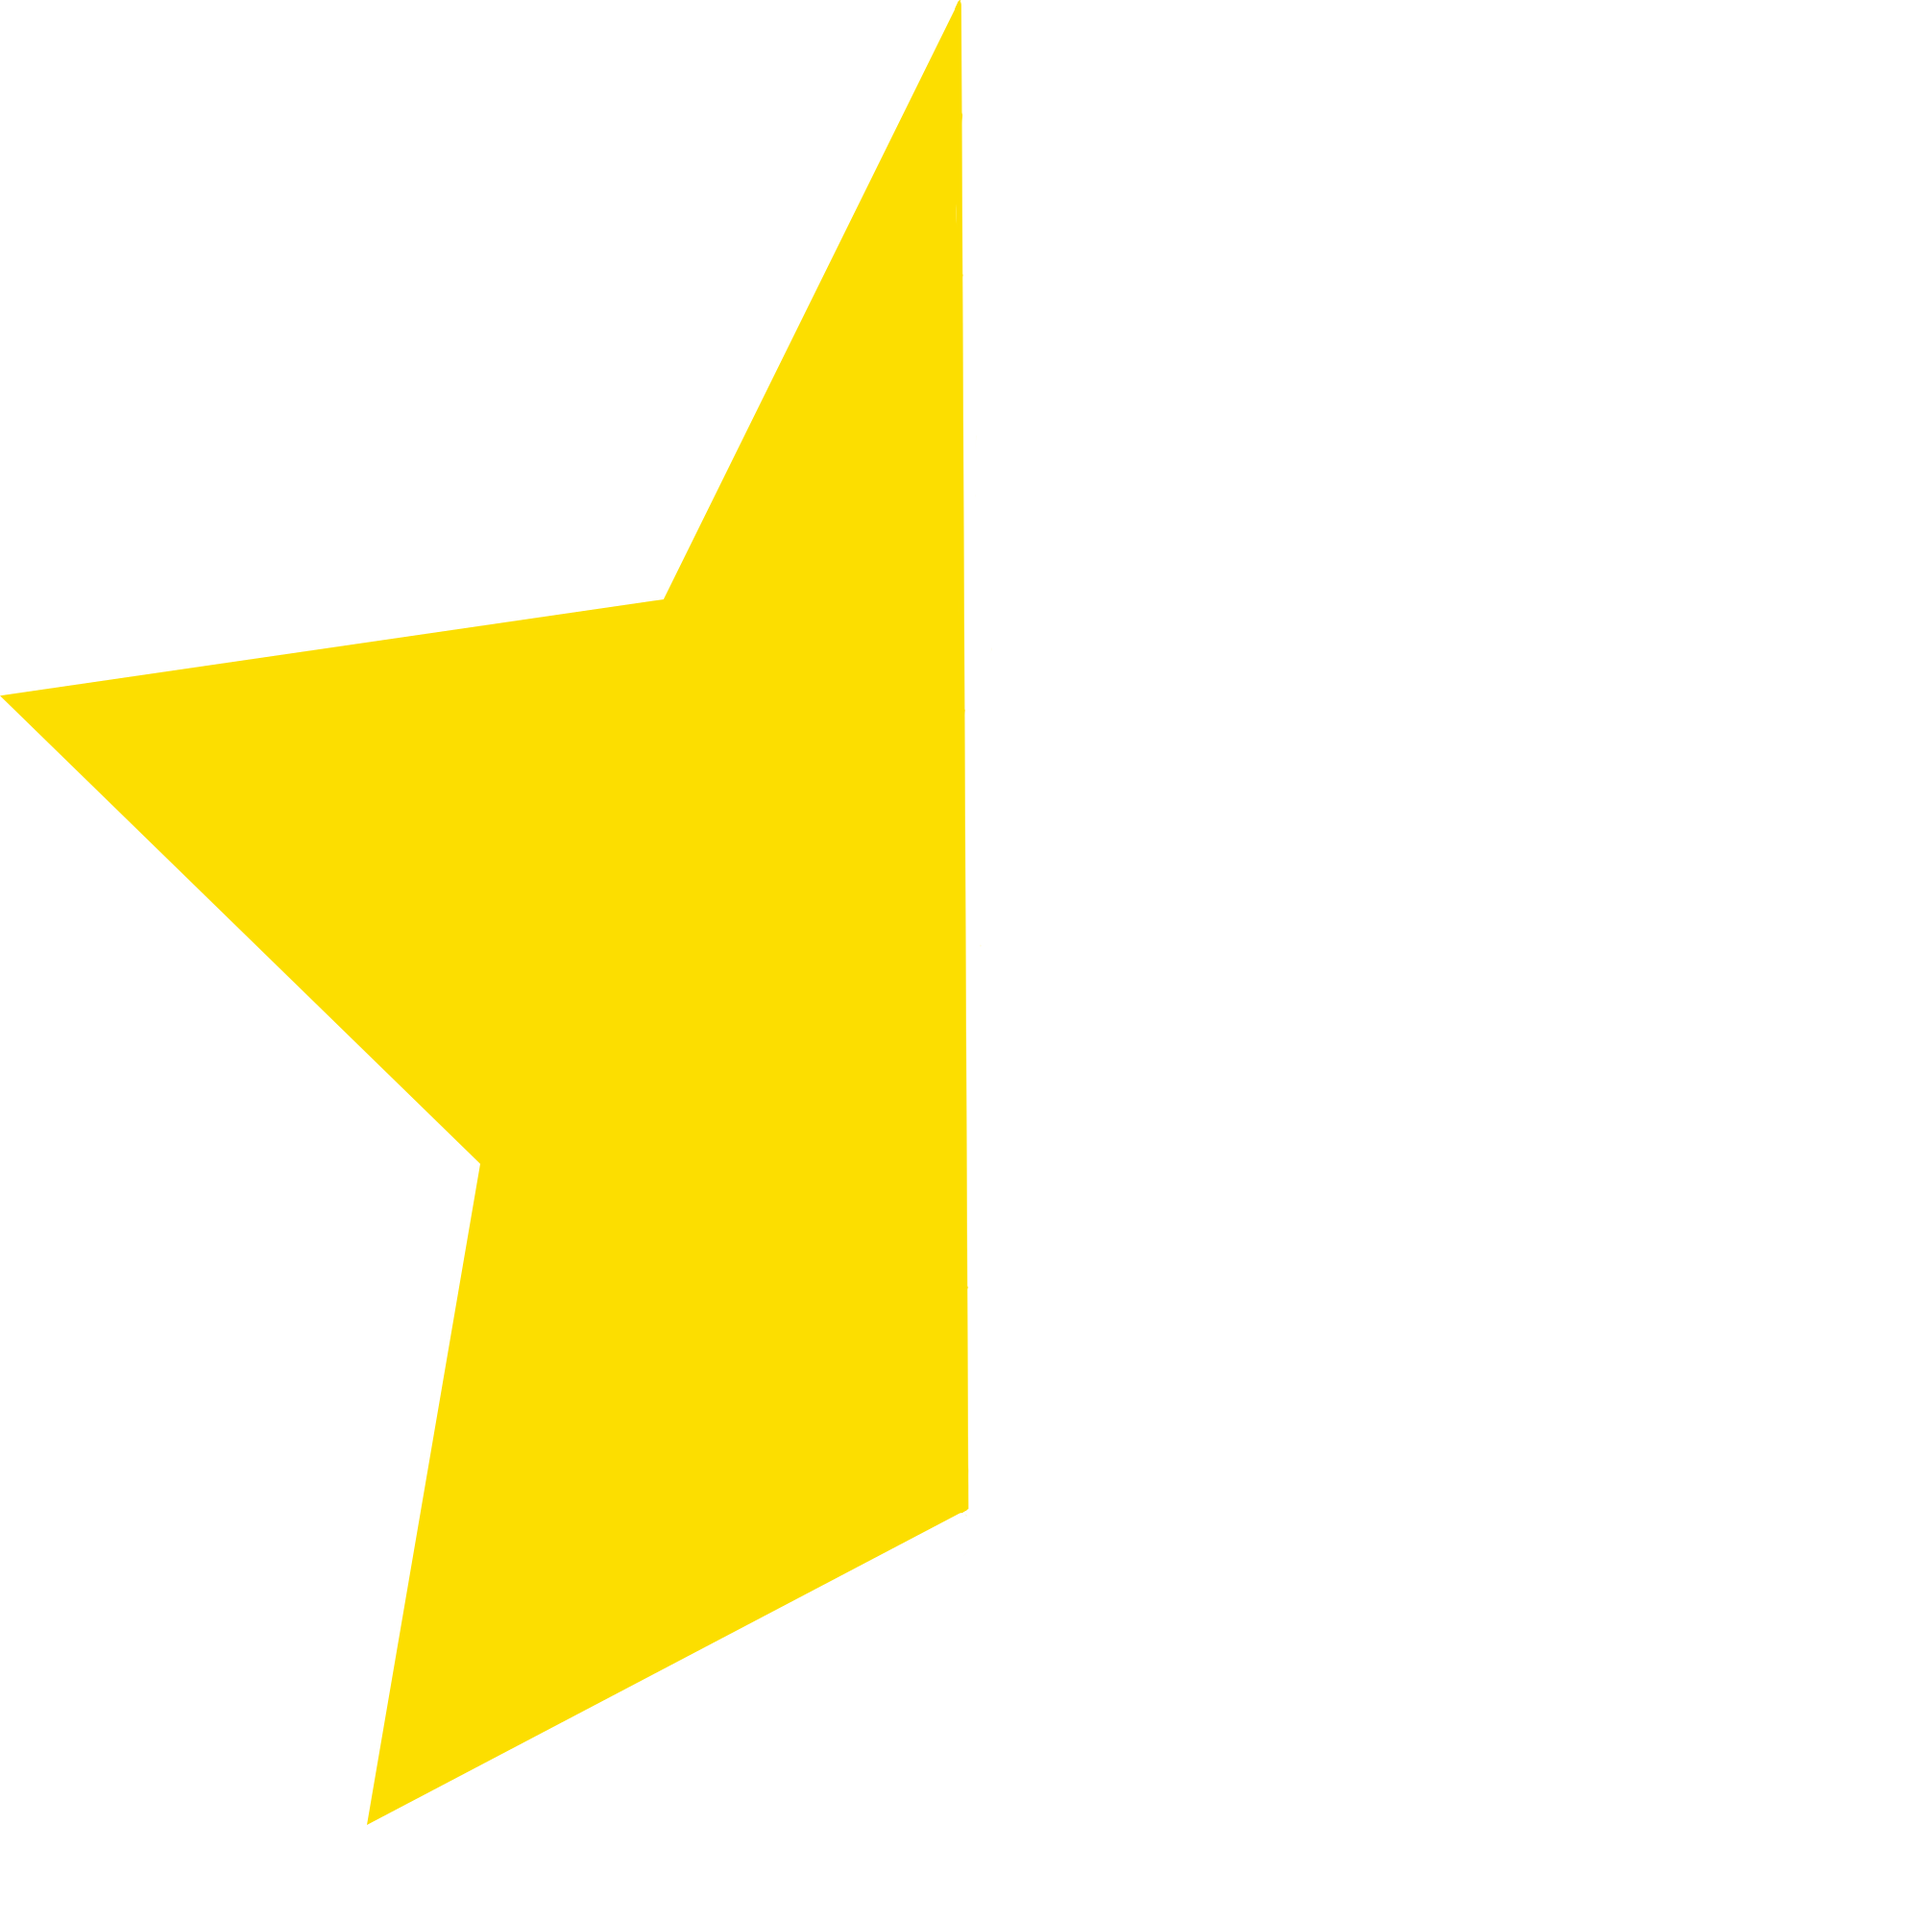
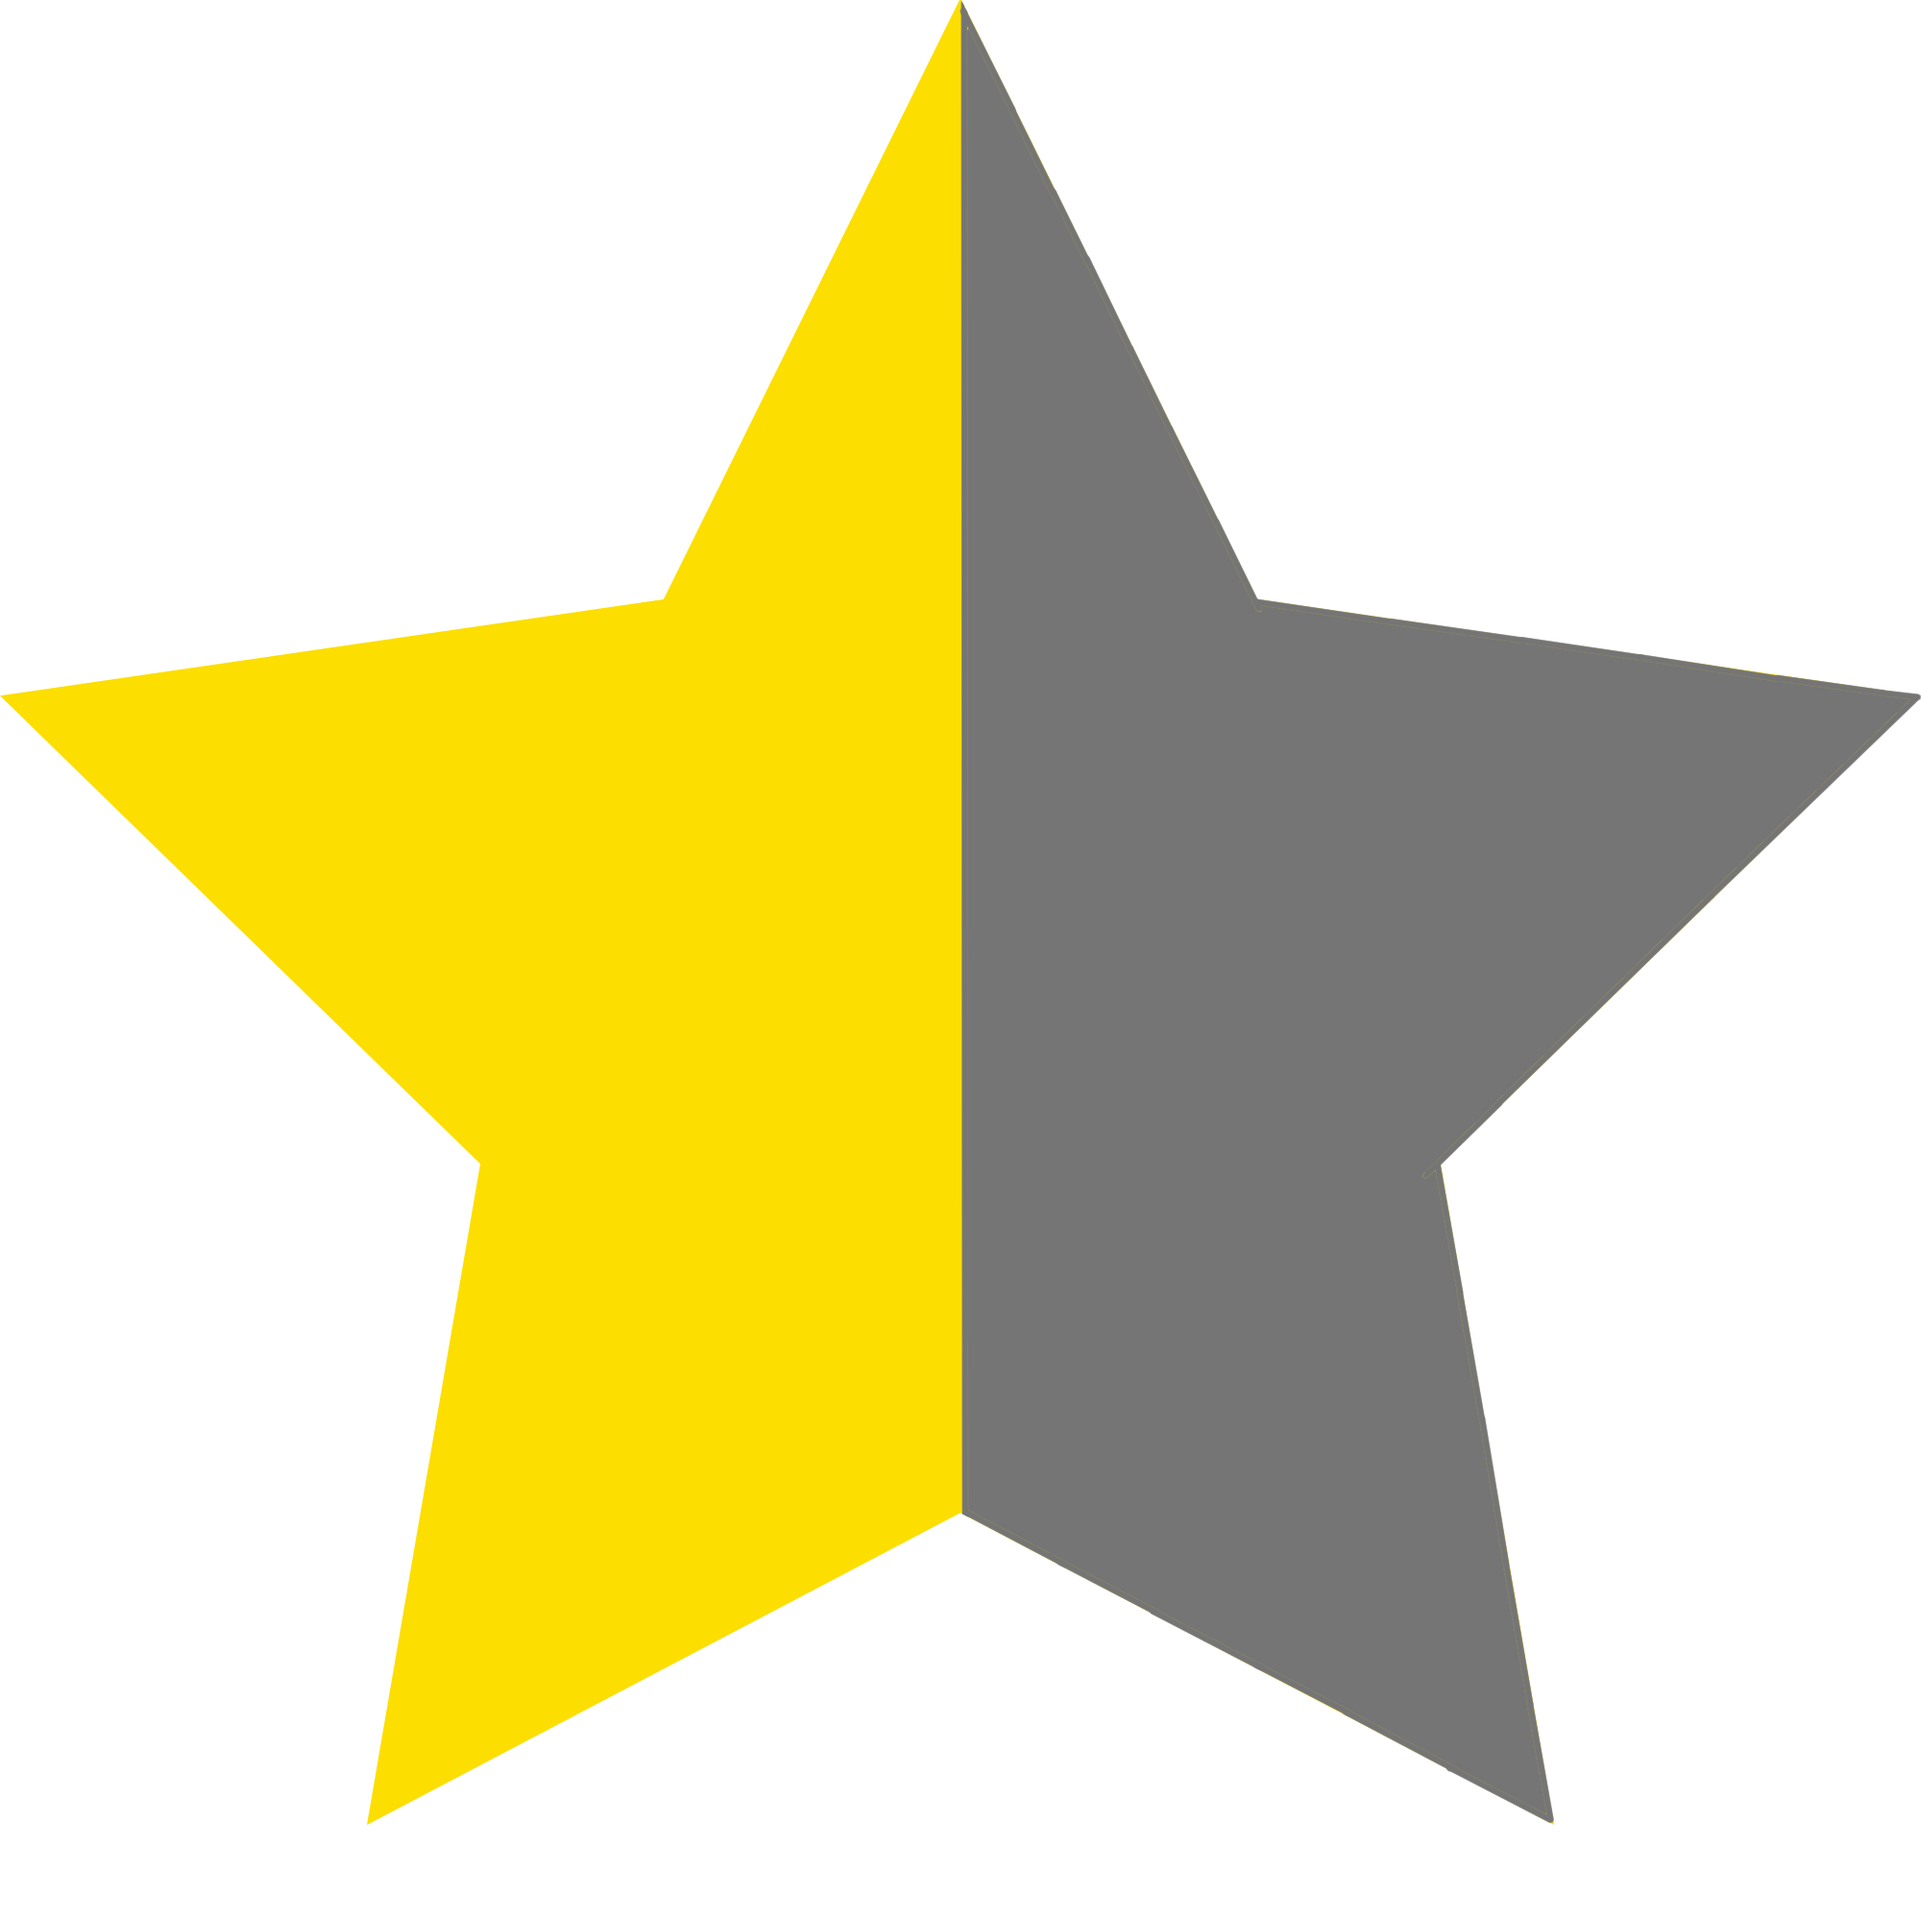
update

Changed region(s): [[0.496, 0.0, 1.0, 0.961]]

diff --git a/index.html b/index.html
@@ -51,6 +51,7 @@
 			</div>
 		</section>
 	</section>
+
 	<section id="skills">
 		<h2 class="skills_text reveal"><b>MY SKILLS</b></h2>
 		<div class="card alt up reveal">
@@ -72,7 +73,7 @@
 			<div class="image star reveal">
 				<img src="img/star.png" >
 			</div>
-			<h2 style="color: #212121; margin-left: auto; margin-right: 3vw;"><b>5.0/5.0</b></h2>
+			<h2 style="color: #212121; margin-left: auto; margin-right: 3vw; margin-top: 0.5vh;"><b>5.0/5.0</b></h2>
 		</div>
 		<div class="card alt up reveal">
 			<div class="image reveal">
@@ -90,8 +91,10 @@
 			<div class="image star reveal">
 				<img src="img/star.png" >
 			</div>
-
-			<h2 style="color: #212121; margin-left: auto; margin-right: 3vw;"><b>4.0/5.0</b></h2>
+			<div class="image star reveal">
+				<img src="img/star2.png" >
+			</div>
+			<h2 style="color: #212121; margin-left: auto; margin-right: 3vw; margin-top: 0.5vh;"><b>4.0/5.0</b></h2>
 		</div>
 
 		<div class="card alt up reveal">
@@ -110,7 +113,10 @@
 			<div class="image star reveal">
 				<img src="img/star.png" >
 			</div>
-			<h2 style="color: #212121; margin-left: auto; margin-right: 3vw;"><b>4.0/5.0</b></h2>
+			<div class="image star reveal">
+				<img src="img/star2.png" >
+			</div>
+			<h2 style="color: #212121; margin-left: auto; margin-right: 3vw; margin-top: 0.5vh;"><b>4.0/5.0</b></h2>
 		</div>
 
 		<div class="card alt up reveal">
@@ -129,8 +135,37 @@
 			<div class="image star reveal">
 				<img src="img/starh.png" >
 			</div>
-			<h2 style="color: #212121; margin-left: auto; margin-right: 3vw;"><b>3.5/5.0</b></h2>
+			<div class="image star reveal">
+				<img src="img/star2.png" >
+			</div>
+			<h2 style="color: #212121; margin-left: auto; margin-right: 3vw; margin-top: 0.5vh;"><b>3.5/5.0</b></h2>
 		</div>
+	</section>
+
+	<section id="projects">
+		<h2 class="about_text reveal"><b>MY PROJECTS</b></h2>
+		<section id="container">
+			<div class="card right reveal" style="margin-left: 0;">
+				<h3>Who am I?</h3>
+				<a onclick="clear1();">
+					<div class="button" id="button1">Click to reveal!</div>
+				</a>
+			</div>
+			<div class="card up reveal">
+				<h3>Achievements</h3>
+				<a onclick="clear2();">
+					<div class="button" id="button2">Click to reveal!</div>
+				</a>
+
+			</div>
+			<div class="card left reveal">
+				<h3>Goals</h3>
+				<a onclick="clear3();">
+					<div class="button" id="button3">Click to reveal!</div>
+				</a>
+
+			</div>
+		</section>
 	</section>
 </body>
 

diff --git a/css/style.css b/css/style.css
@@ -43,7 +43,7 @@ img{
 }
 
 #skills {
-  min-height: 200vh;
+  height: 190vh;
   margin-top: 5vh;
   display: flex;
   justify-content: flex-start;
@@ -55,6 +55,18 @@ img{
   overflow: visible;
 }
 
+#projects{
+  min-height: 99.9vh;
+  margin-top: 3vh;
+  display: flex;
+  justify-content: flex-start;
+  align-items: center;
+  background-color: white;
+  color: rgba(255, 255, 255, 0);
+  font-family: Poppins;
+  flex-direction: column;
+  overflow: visible;
+}
 #intro {
   animation: slidedown 2s, fadeintro 3s;
   animation-fill-mode: forwards;
@@ -270,6 +282,10 @@ img{
     flex-direction: column;
     height: 99.9vh;
     overflow: visible;
+  }
+  #skills{
+    height: 100vh;
+    
   }
   .card {
     width: 80vw;

diff --git a/js/button.js b/js/button.js
@@ -24,7 +24,7 @@ function clear2()
 {
   if(!running)
   {
-    txt = "⚪ Completed My BTEC Level 3 Exetended Diploma in IT with D*D*D*<br/><br/>⚪ Completed MTA Security Fundementals<br/><br/>⚪ Completed MTA Introduction to Python<br/><br/>⚪ I have completed several Freelance Projects";
+    txt = "⚪ Completed My BTEC Level 3 Exetended Diploma in IT with D*D*D*<br/><br/>⚪ Completed MTA Security Fundementals<br/><br/>⚪ Completed MTA Introduction to Python<br/><br/>⚪ Completed several Freelance Projects";
     running = true;
     button = document.getElementById("button2");
     if(button.innerHTML =="Click to reveal!" ||button.innerHTML.charAt(0) == "⚪")
